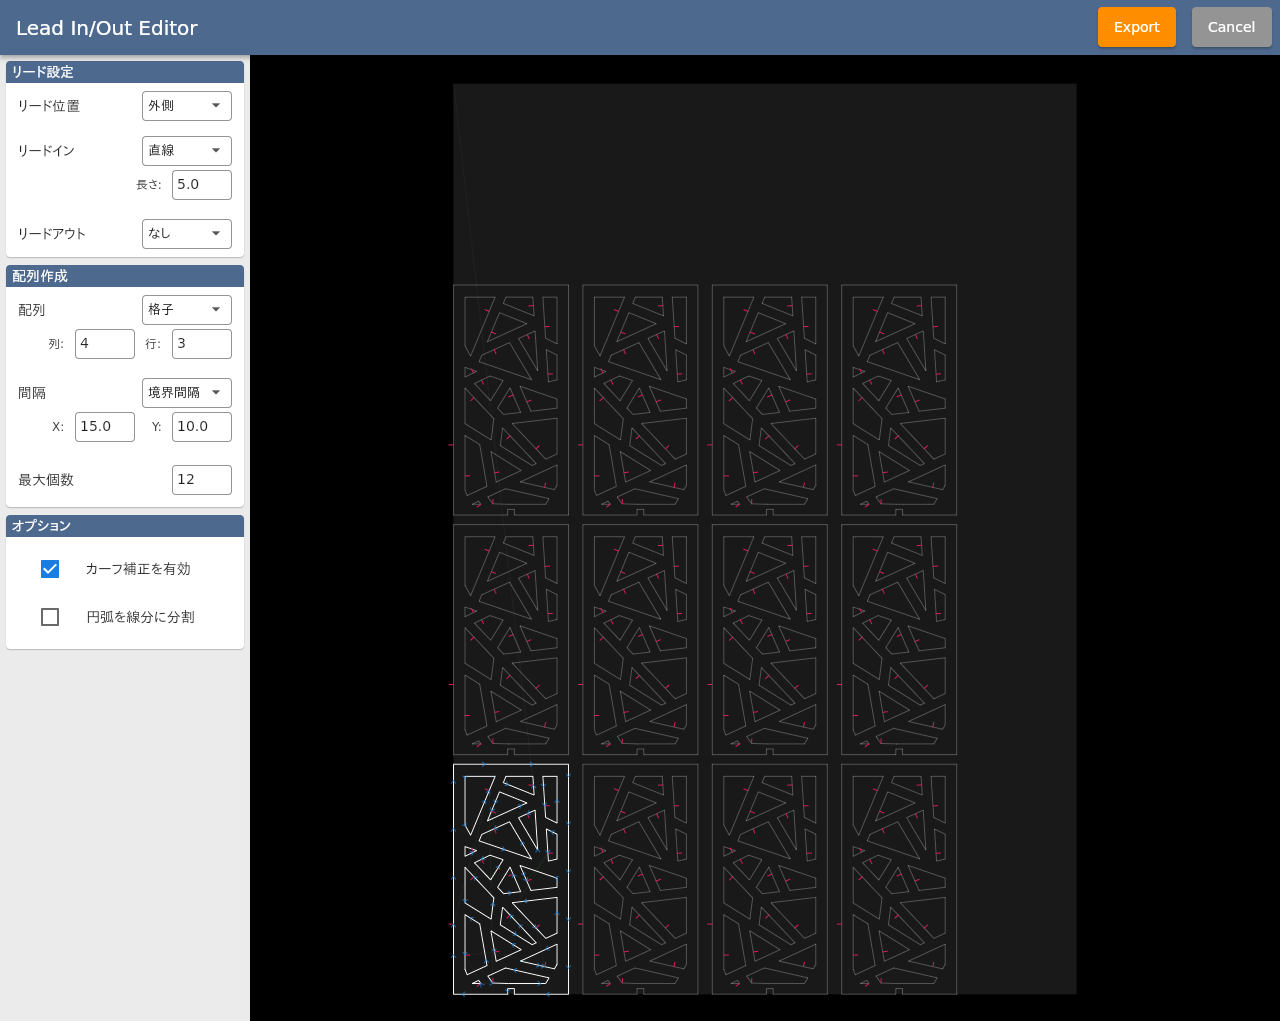
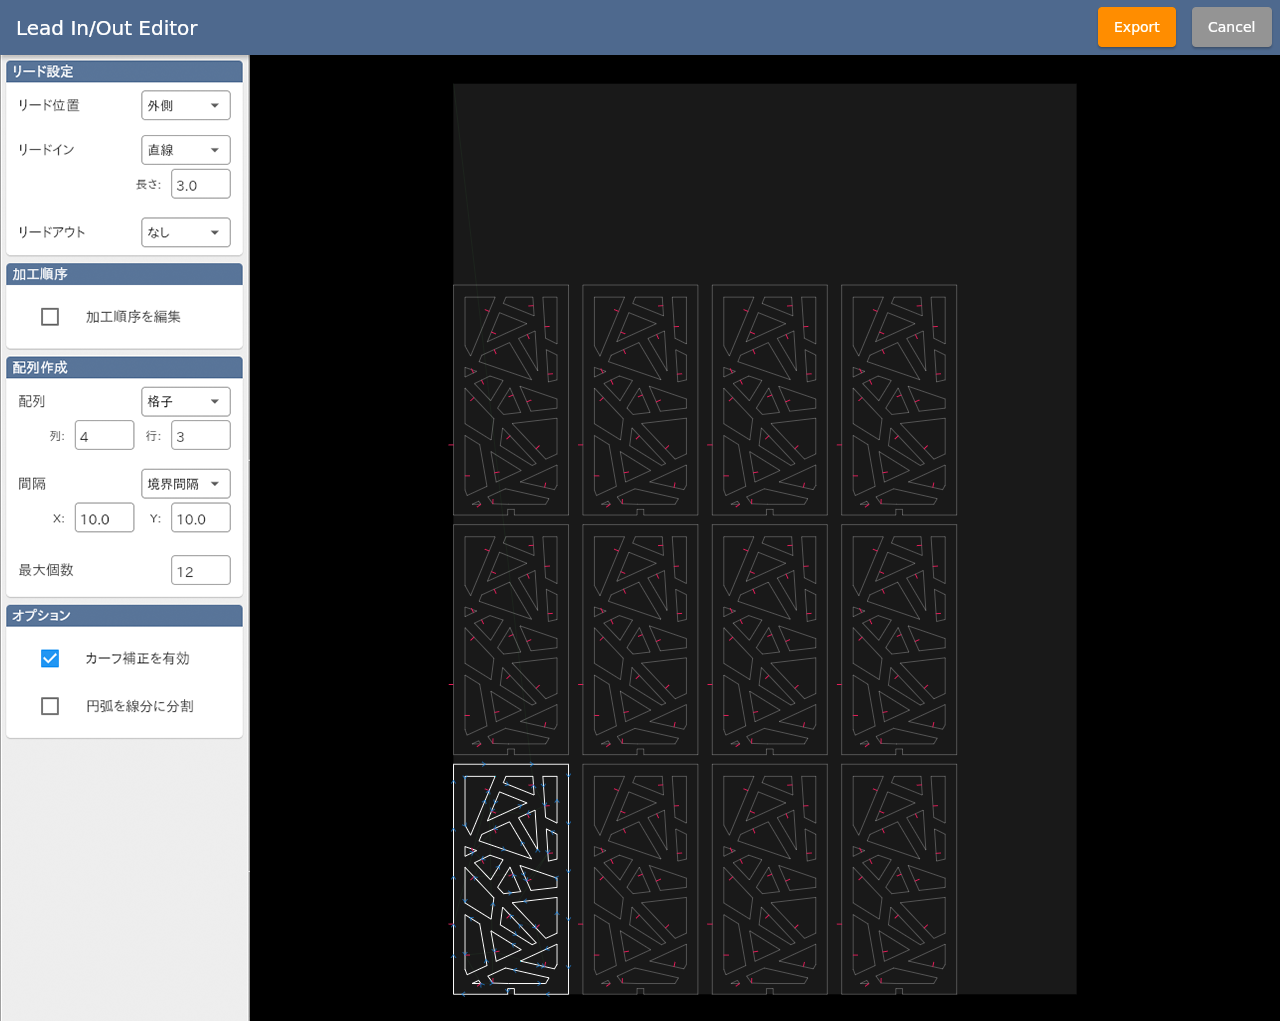
update images and descriptions for v1.2.0

Changed region(s): [[0.0, 0.0911, 0.1875, 0.4251], [0.0, 0.4554, 0.1875, 0.6983], [0.0, 0.0607, 0.0625, 0.1214]]

diff --git a/manual/cam.md b/manual/cam.md
@@ -11,6 +11,7 @@ SVGやDXFデータを読み込むとこのエディタが起動します。
 ※ dxfデータは 1単位 = 1mm としてインポートされます。
 ※ テキスト要素には対応しておりません。事前にアウトライン化やポリライン化を行ってください。
 ```
+
 ## リード設定
 
 ### リード位置
@@ -19,6 +20,11 @@ SVGやDXFデータを読み込むとこのエディタが起動します。
 
 ### リードイン/リードアウト
 リードのスタイル及び長さを設定します。厚い素材ほどリードを長く確保することをお勧めします。
+
+## 加工順序
+加工パスごとの加工順序を変更することが可能です。「加工順序を編集」チェックボックスを有効にして加工を行いたい順番で図形をクリックして下さい。<br>
+「＜」ボタンや「＞」ボタンを押すと、順序の設定をやり直したりスキップすることができます。入れ子になっている図形はなるべく内側の図形から加工するように設定して下さい。<br>
+リセットボタンを押すと編集した情報が破棄され、経路が自動設定されます。
 
 ## 配列作成
 
@@ -34,8 +40,8 @@ SVGやDXFデータを読み込むとこのエディタが起動します。
 ## オプション
 
 ### カーフ補正を有効
-カーフ幅を考慮した自動補正のオン/オフを切り替えます。
-この設定がオンの場合、加工時にSmartPlasma上で設定されたカーフ幅パラメータに基づいて自動でパスの補正が行われます。
+カーフ幅を考慮した自動補正のオン/オフを切り替えます。<br>
+この設定がオンの場合、加工時にSmartPlasma上で設定されたカーフ幅パラメータに基づいて自動でパスの補正が行われます。<br>
 この自動補正機能は万能ではなく、加工経路や補正幅によっては矛盾が生じて加工を行うことができません。
 補正方向（パスの内側・外側）はリード位置に基づいて決定されます。
 

diff --git a/manual/releasenote.md b/manual/releasenote.md
@@ -12,6 +12,19 @@
 <tbody>
 
 <tr>
+<td align="left">2024.12.23</td>
+<td align="left">v1.2.0</td>
+<td align="left">
+PL950Rへの対応<br>
+機種選択画面の追加<br>
+CAMソフトへ加工順序設定機能の追加<br>
+特定のDXFデータの読み込み不具合改善<br>
+UI/UXの改善<br>
+軽微な不具合の修正</td>
+<td align="left"><a href="https://download.smartdiys.com/smartplasma/archive/SmartPlasma_v1.2.0.plupd">v1.1.0</a></td>
+</tr>
+
+<tr>
 <td align="left">2023.1.19</td>
 <td align="left">v1.1.0</td>
 <td align="left">
